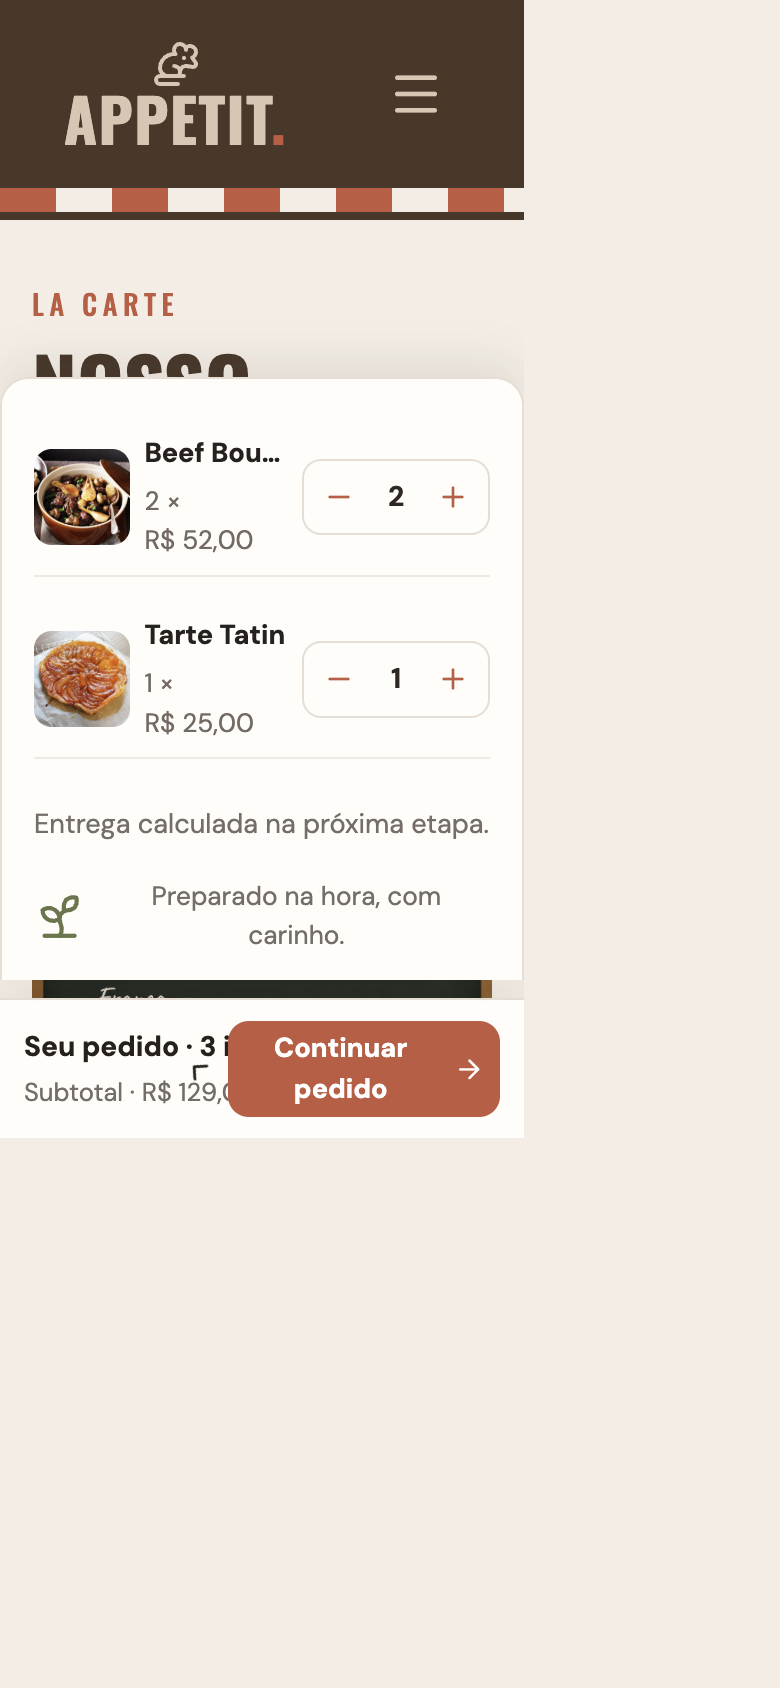
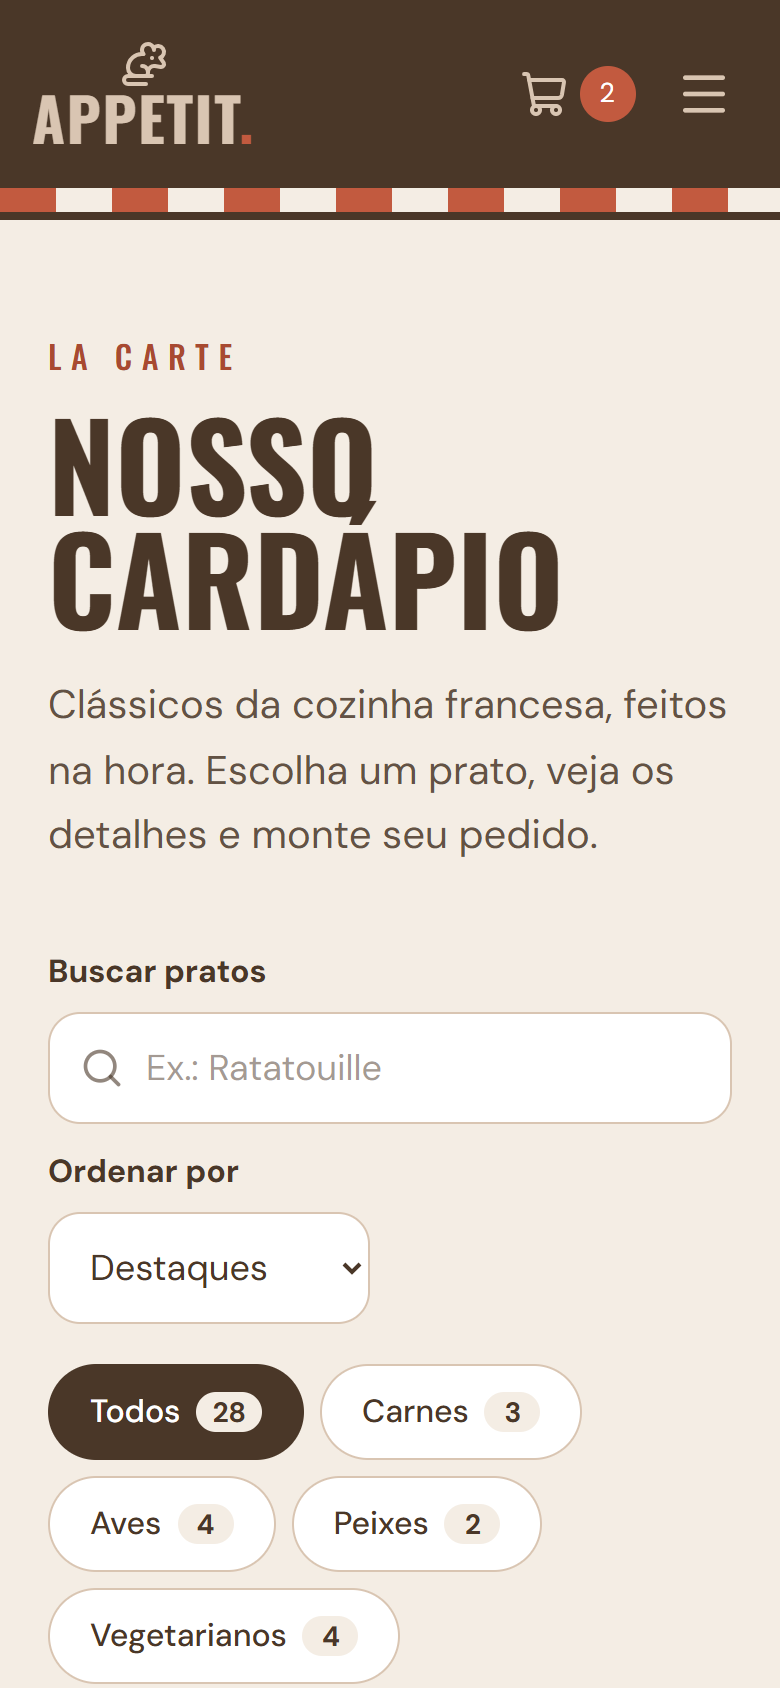
docs: add screenshots and update README

diff --git a/README.md b/README.md
@@ -2,7 +2,7 @@
 
 Site de um bistrô francês fictício, com cardápio online e pedidos. Projeto acadêmico da disciplina de Desenvolvimento Web, desenvolvido em grupo pela organização **fmcs**.
 
-**Site no ar:** - Em andamento
+**Site no ar:** [appetit-liard.vercel.app](https://appetit-liard.vercel.app/)
 
 ---
 
@@ -17,9 +17,33 @@ A identidade visual usa detalhes de bistrô em vez de símbolos óbvios: o toldo
 | Página | O que tem | Status |
 | --- | --- | --- |
 | **Home** | Hero com janela francesa, carrossel "Pratos da casa" com pratos da API, seção "Nossa história" e rodapé | ✅ Pronta |
-| **Pratos** | Cardápio completo, busca, filtro por categoria e modal com detalhes do prato | 🚧 Em desenvolvimento |
+| **Pratos** | Cardápio completo, busca, filtro por categoria e modal com detalhes do prato | ✅ Pronta |
 | **Pedidos** | Checkout com validação e envio ao backend | ✅ Integrado |
 | **Meus pedidos** | Histórico neste navegador e acesso ao acompanhamento | ✅ Integrado |
+
+## Telas
+
+### Home
+
+| Computador | Celular |
+| --- | --- |
+| <img src="screenshots/home-desktop.png" alt="Home no computador: header, hero com a janela francesa e o início do carrossel Pratos da casa" width="560"> | <img src="screenshots/home-mobile.png" alt="Home no celular: header com carrinho e menu, título Bon appétit e a janela francesa" width="220"> |
+
+### Pratos
+
+| Computador | Celular |
+| --- | --- |
+| <img src="screenshots/pratos-desktop.png" alt="Página Pratos no computador: título Nosso cardápio, busca, ordenação e filtros por categoria" width="560"> | <img src="screenshots/pratos-mobile.png" alt="Página Pratos no celular: título, busca, ordenação e filtros" width="220"> |
+
+| Detalhes do prato | Carrinho no header |
+| --- | --- |
+| <img src="screenshots/pratos-modal-desktop.png" alt="Modal de detalhes do Beef Bourguignon com descrição, ingredientes e restrições alimentares" width="420"> | <img src="screenshots/carrinho-desktop.png" alt="Painel do carrinho aberto no header com dois pratos e o subtotal" width="420"> |
+
+### Pedido e Meus pedidos
+
+| Finalizar pedido | Meus pedidos |
+| --- | --- |
+| <img src="screenshots/pedido-desktop.png" alt="Checkout com os pratos escolhidos, a forma de receber e o resumo do pedido" width="420"> | <img src="screenshots/meus-pedidos-desktop.png" alt="Página Meus pedidos sem pedidos salvos neste navegador" width="420"> |
 
 ## Tecnologias
 
@@ -30,7 +54,9 @@ A identidade visual usa detalhes de bistrô em vez de símbolos óbvios: o toldo
 | [Tailwind CSS v4](https://tailwindcss.com) | Estilização com classes utilitárias |
 | [React Router](https://reactrouter.com) | Navegação entre páginas sem recarregar |
 | [Lucide](https://lucide.dev) | Ícones |
-| [TheMealDB](https://www.themealdb.com/api.php) | API pública com os pratos franceses |
+| [Spring Boot](https://spring.io/projects/spring-boot) + SQLite | Backend com o cardápio e os pedidos |
+| [Render](https://render.com) | Publicação do backend |
+| [TheMealDB](https://www.themealdb.com/api.php) | Origem dos pratos franceses e das fotos |
 | [Vercel](https://vercel.com) | Publicação do site |
 
 ## Requisitos do trabalho
@@ -100,15 +126,24 @@ npm run preview
 
 ```
 appetit/
+├── backend/             # API Spring Boot (cardápio e pedidos)
 ├── public/              # imagens e favicon
+├── screenshots/         # prints das telas usados neste README
+├── tests/               # testes (npm test)
 ├── index.html           # título da página, fontes e idioma
-├── vite.config.js       # plugins do React e do Tailwind
+├── vite.config.js       # plugins do React e do Tailwind, proxy da /api
+├── vercel.json          # rotas da Vercel e encaminhamento da /api ao backend
 └── src/
     ├── main.jsx         # ponto de entrada
-    ├── App.jsx          # header e rotas das páginas
+    ├── App.jsx          # header, carrinho e rotas das páginas
     ├── index.css        # Tailwind, cores, fontes e classes próprias
-    ├── pages/           # telas inteiras (Home, Pratos, Pedidos)
-    └── components/      # peças reutilizáveis (Header, Hero, CardPrato...)
+    ├── pages/           # telas inteiras (Home, Pratos, Pedido, Meus pedidos...)
+    ├── components/      # peças reutilizáveis (Header, Hero, CardPrato...)
+    ├── services/        # chamadas à API (pratos e pedidos)
+    ├── data/            # textos e dados fixos do restaurante
+    ├── utils/           # funções auxiliares (cálculos, armazenamento)
+    ├── context/         # contexto React do pedido
+    └── assets/styles/   # CSS do carrinho, pedido, acompanhamento e pratos
 ```
 
 ## API e acompanhamento de pedidos
